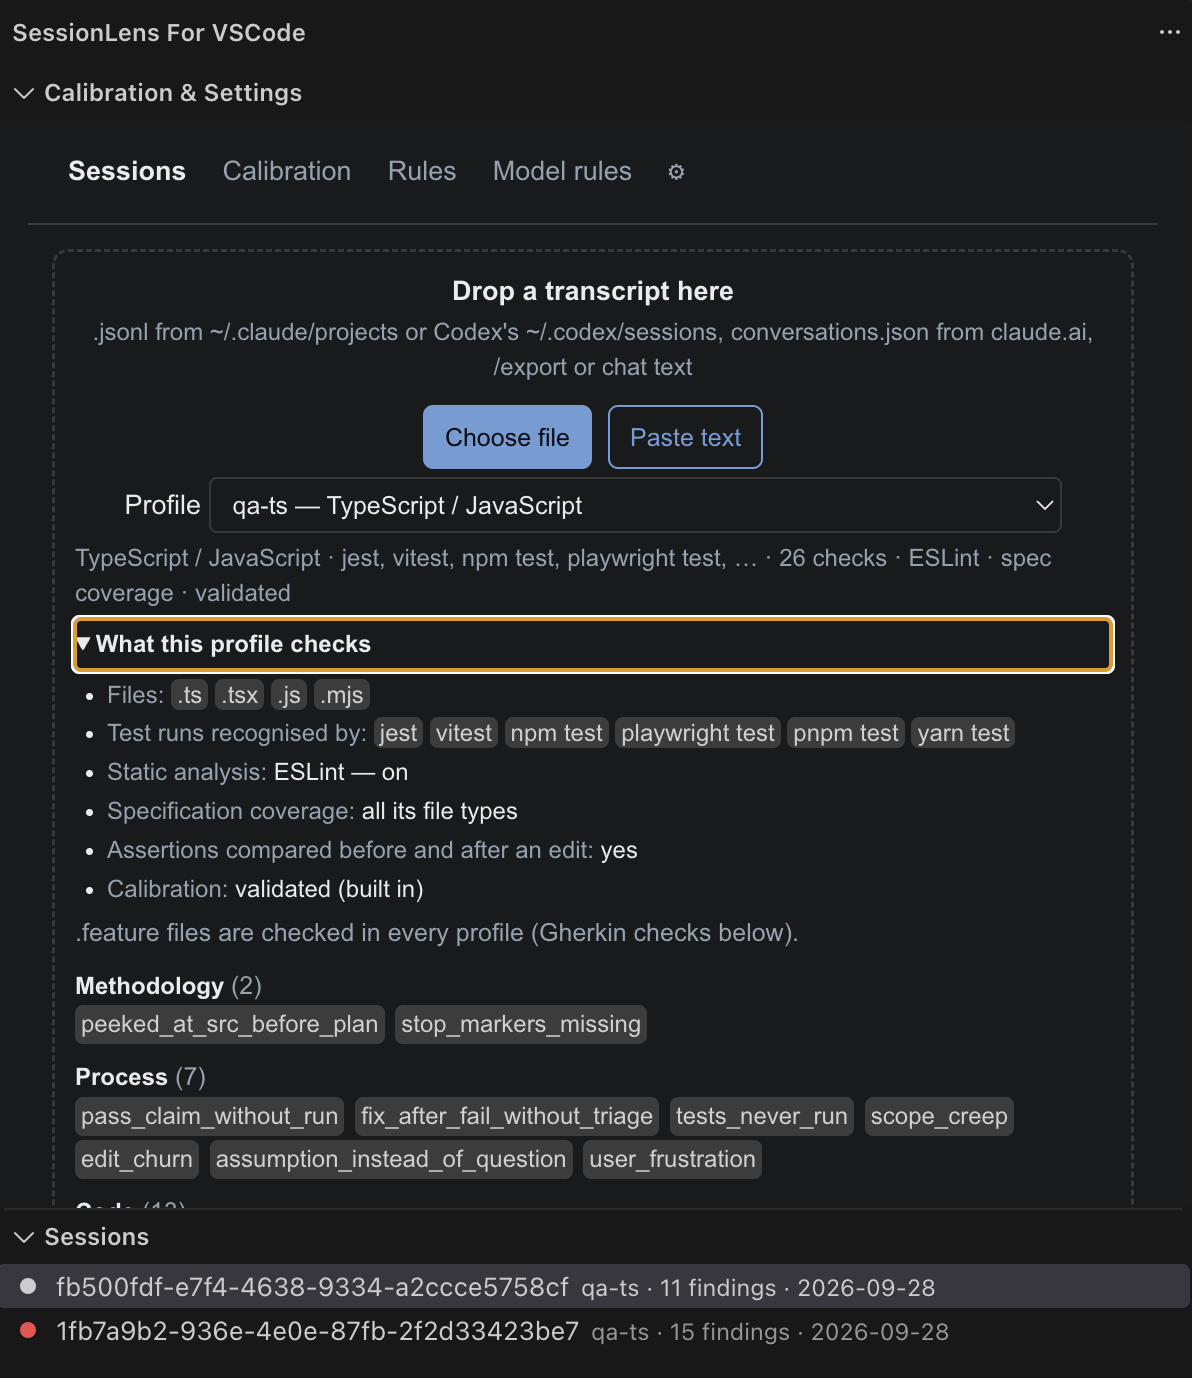
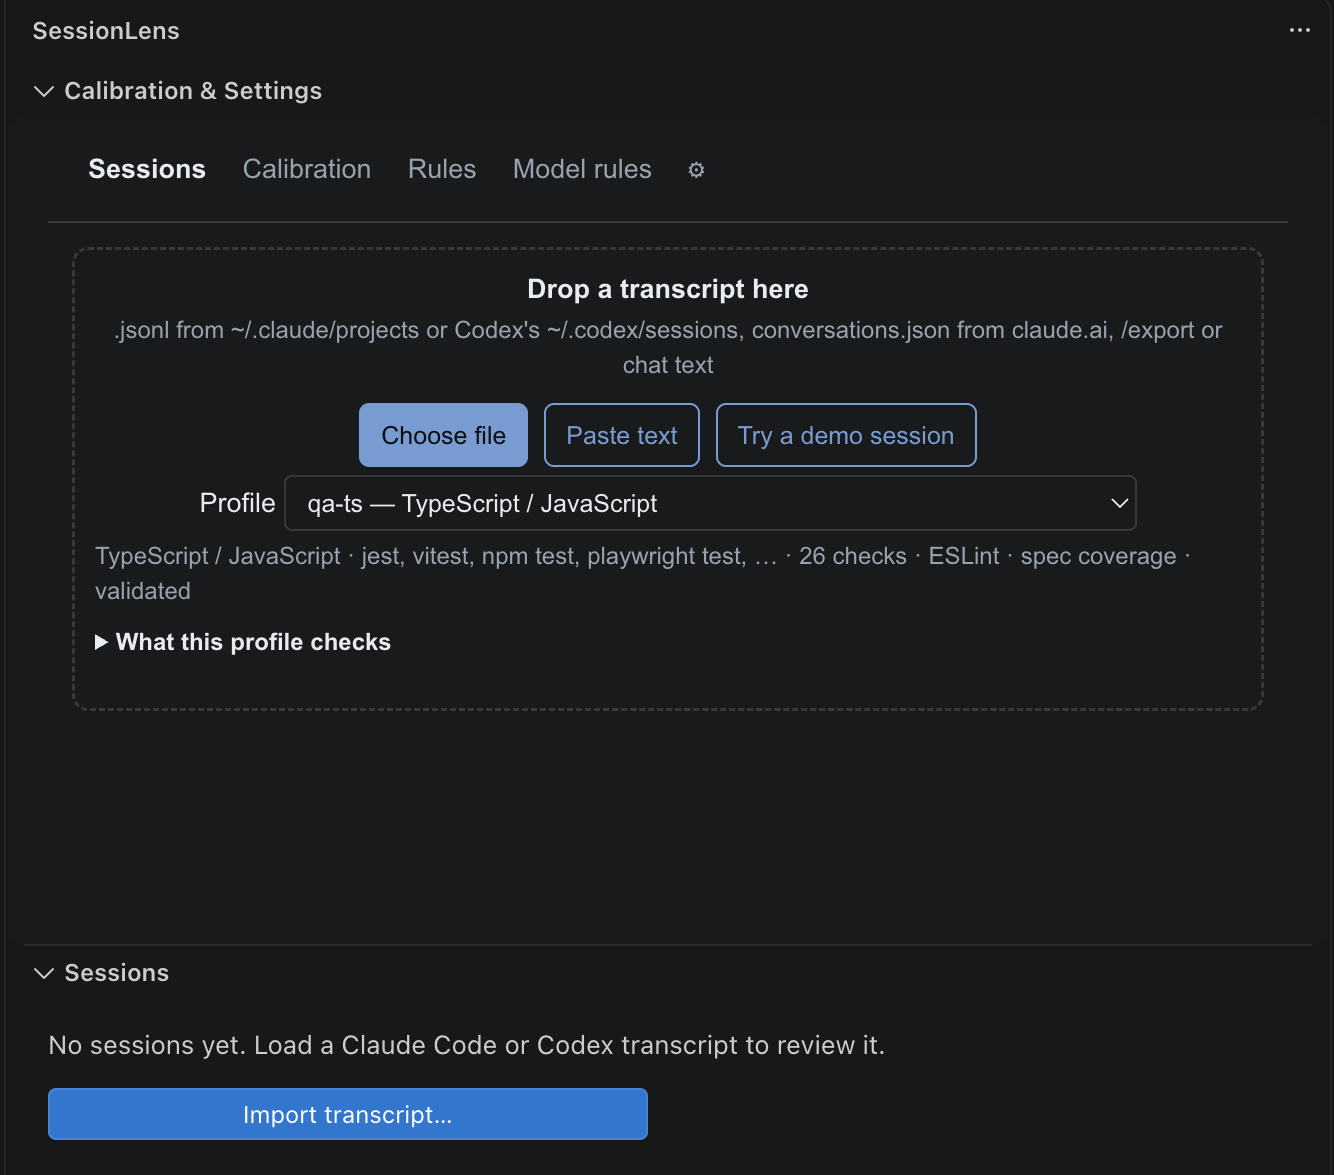
docs: demo GIF and screenshots from the demo session in the readme
The readme opens with a GIF of the demo session: Try a demo session, the
Red session, Confirm on the "Claims tests pass" finding, and the rule it
proposes on the Calibration tab. The sidebar and session screenshots are
taken on the demo session, so they no longer show a real project's path
and session ids, and the Calibration section gets a screenshot of its own.
The sidebar screenshot moves to the Sessions tab section.

diff --git a/readme.md b/readme.md
@@ -9,7 +9,7 @@ It is built for sessions in which an agent writes or fixes automated tests, but 
 > [open an issue](https://github.com/nikolaylosev/sessionlens-vscode/issues/new) (see
 > [Found a false finding?](#found-a-false-finding) for what to include).
 
-![The SessionLens sidebar: the Sessions tab with the details of the selected profile, and the Sessions list under it](media/screenshots/panel-profile.png)
+![The demo session: Try a demo session, a Red session, Confirm on "Claims tests pass while the last run was 1 passed / 1 failed", and the rule it proposes on the Calibration tab](media/screenshots/demo.gif)
 
 ## Contents
 
@@ -71,6 +71,8 @@ If you moved the two parts around in an earlier version, VS Code keeps your orde
 
 The **Sessions** tab itself, inside Calibration & Settings, is where you load a transcript:
 
+![The SessionLens sidebar: the Sessions tab with Choose file, Paste text, Try a demo session and the profile, and the Sessions list under it](media/screenshots/panel-profile.png)
+
 - **Accepted input:** Claude Code `.jsonl` (from `~/.claude/projects`), Codex `rollout-*.jsonl` (from `~/.codex/sessions`, CLI or the VS Code extension), `conversations.json` from claude.ai, an `/export`, or plain chat text. A file with several conversations asks for part of a name to load only one. In the VS Code build, **Choose file** first asks whether the transcript is from Claude Code, Codex or somewhere else, then opens VS Code's own dialog straight inside `~/.claude/projects` or `~/.codex/sessions` — both are hidden by a leading dot (with no way to browse from one into the other once you're inside), but everything one level below either is a normal, visible folder or file.
 - **Profile:** the language and test runner to analyse for. See [Profiles](#profiles).
 - **Paste text:** paste a transcript, give it a name (for example `AUTH-142 Ivan`) and press **Analyse**.
@@ -94,6 +96,8 @@ Everything about one session. It opens in its own editor tab when you click a se
 - **Mark reviewed**, **Rename** and **Delete** manage the session itself. **Delete** also closes this tab, since there is nothing left to show in it.
 
 ### Calibration
+
+![The Calibration tab: the check precision table, and a rule for CLAUDE.md and AGENTS.md proposed from a confirmed finding, with its evidence](media/screenshots/calibration.png)
 
 Learning from your verdicts.
 
